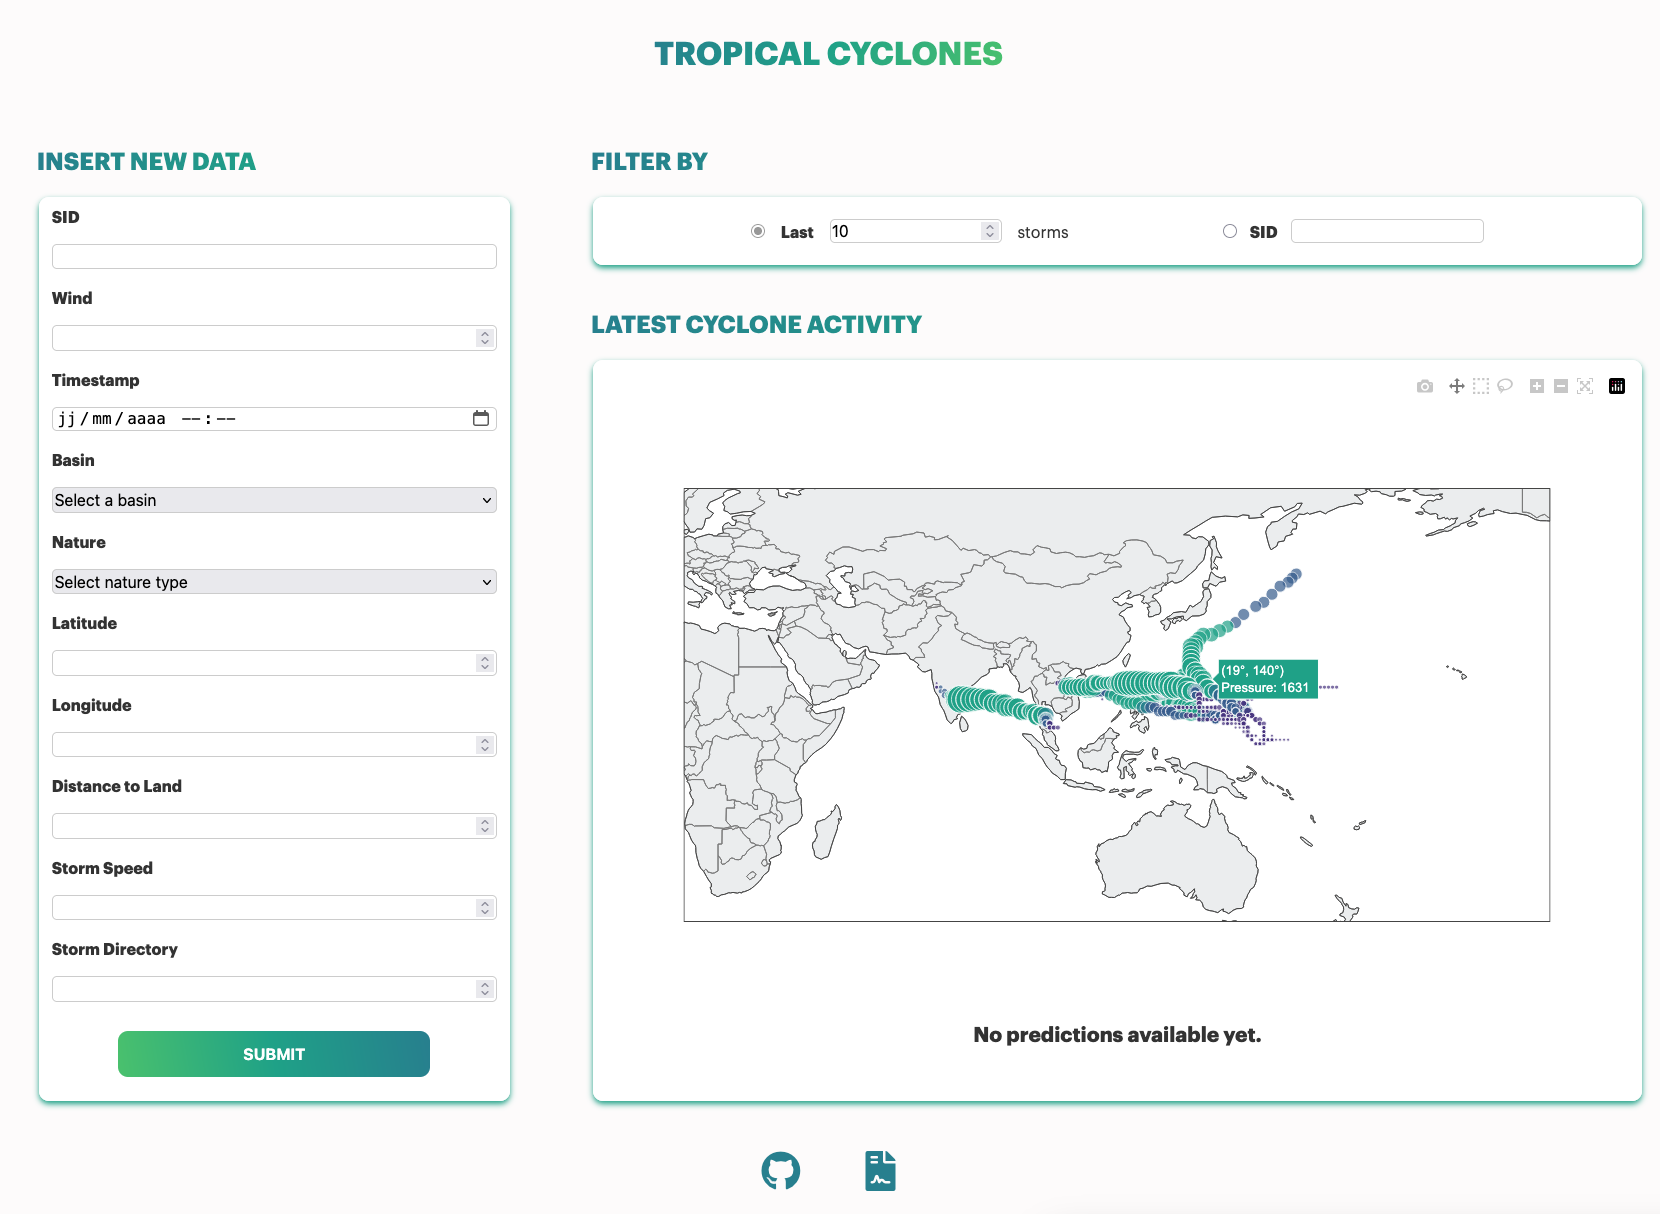
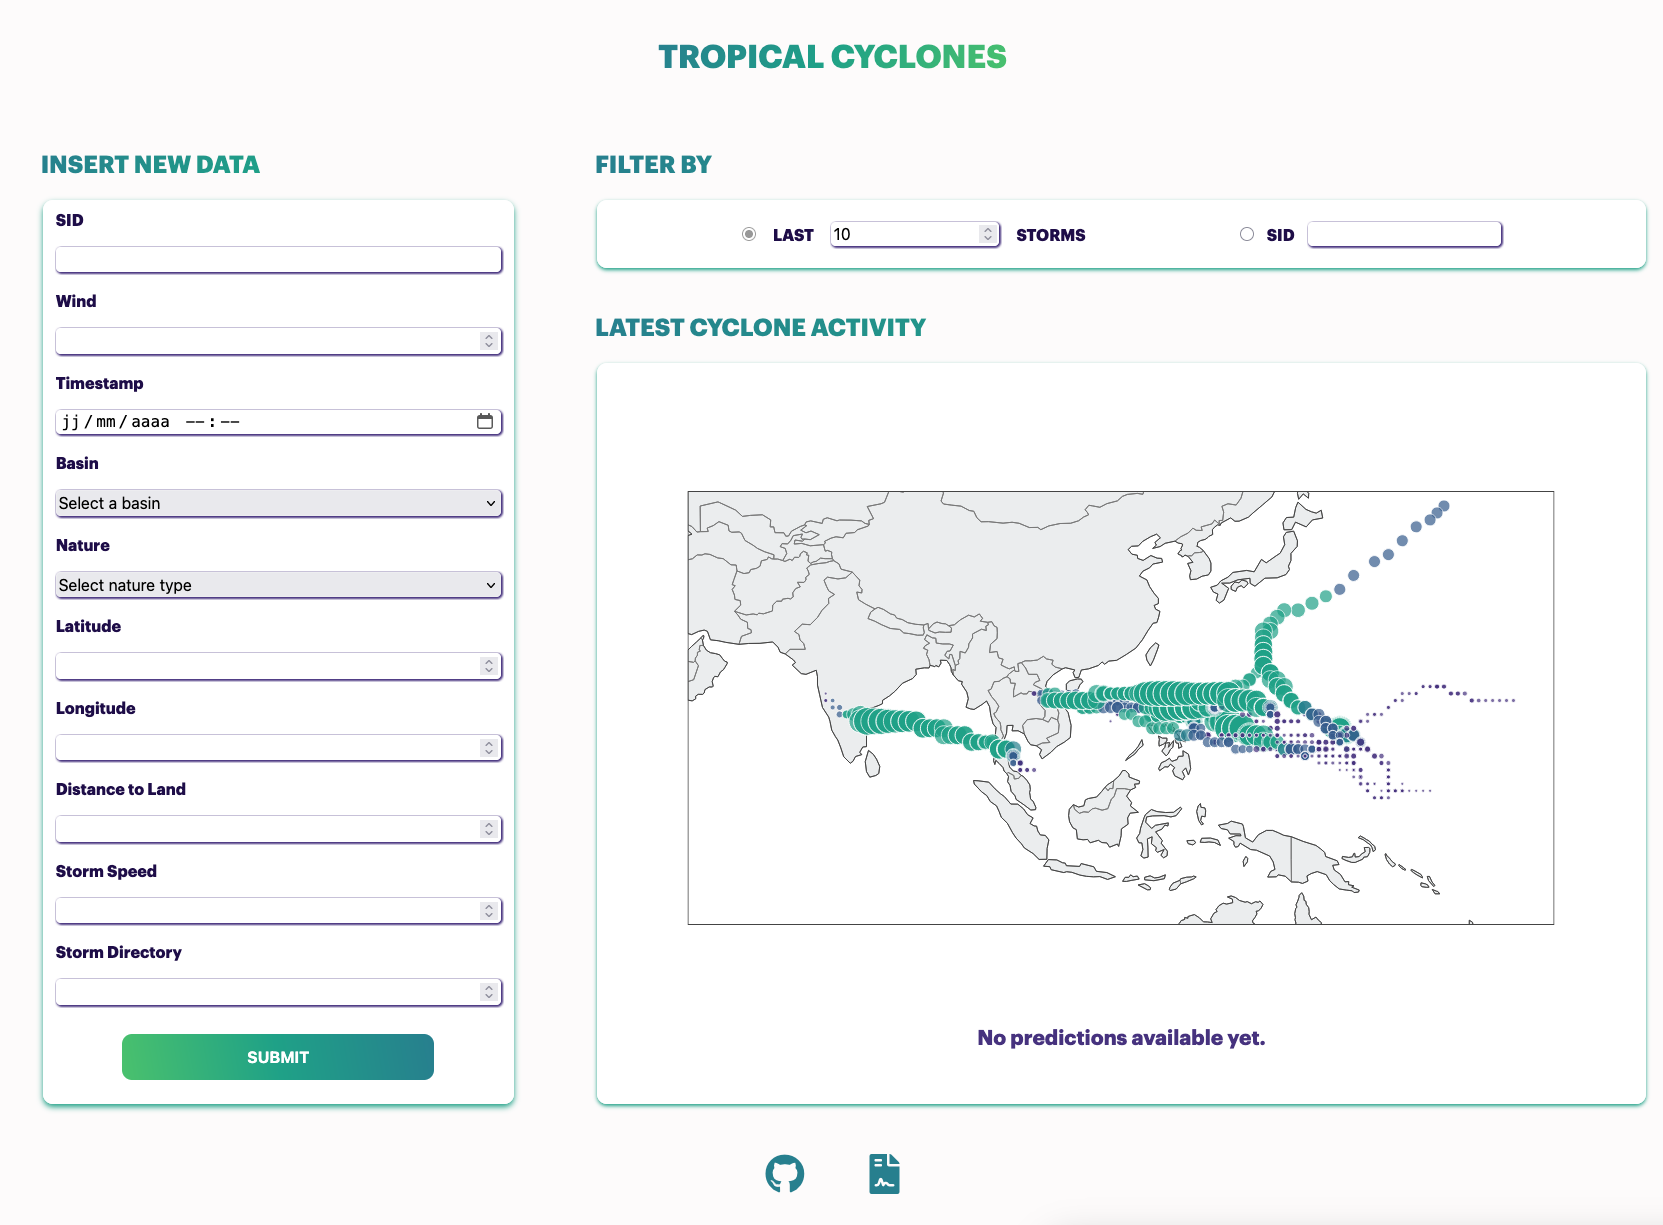
Minor color fixes for the frontend

diff --git a/web_app/app/static/assets/css/style.css b/web_app/app/static/assets/css/style.css
@@ -52,6 +52,7 @@ main {
   backdrop-filter: blur( 18px );
   -webkit-backdrop-filter: blur( 18px );
   font-weight: bold;
+  color: #1e0d48;
 }
 
 .left-column form {
@@ -66,8 +67,11 @@ main {
   width: 100%;
   padding: 0.4%;
   font-size: 1rem;
-  border: 1px solid #ccc; /* for the select boxes border in the form */
-  border-radius: 5px; 
+  border: 1px solid rgba( 255, 255, 255, 0.18 );
+  border-radius: 5px;
+  box-shadow: 1px 1px 1px 1px #46327e;
+  backdrop-filter: blur( 10px );
+  -webkit-backdrop-filter: blur( 10px );
   box-sizing: border-box; /* includes padding into total size */
 }
 
@@ -102,7 +106,7 @@ main {
   background: white;
   border: 1px solid rgba( 255, 255, 255, 0.18 );
   border-radius: 10px;
-  box-shadow: 0 3px 6px 0 #1fa187;
+  box-shadow: 0 2px 4px 0 #1fa187;
   backdrop-filter: blur( 18px );
   -webkit-backdrop-filter: blur( 18px );
   padding: 1%;
@@ -124,6 +128,8 @@ main {
   gap: 5%;
   margin-top: 1%;
   margin-bottom: 1%;
+  font-weight: bold;
+  color: #1e0d48;
 }
 
 .right-column section:nth-of-type(1) .filter-group input[type="radio"] {
@@ -134,6 +140,7 @@ main {
 
 .right-column section:nth-of-type(1) .filter-group label {
   font-weight: bold;
+  color: #1e0d48;
   margin: 0;
 }
 
@@ -143,8 +150,11 @@ main {
   padding-left: 0.4%;
   padding-right: 0.4%;
   font-size: 1rem;
-  border: 1px solid #ccc;
+  border: 1px solid rgba( 255, 255, 255, 0.18 );
   border-radius: 5px;
+  box-shadow: 1px 1px 1px 1px #46327e;
+  backdrop-filter: blur( 10px );
+  -webkit-backdrop-filter: blur( 10px );
   box-sizing: border-box;
 }
 
@@ -174,6 +184,7 @@ main {
   margin-bottom: 4%;
   font-weight: bold;
   font-size: 1.3rem;
+  color: #46327e;
 }
 
 /* Footer styles with social links */

diff --git a/web_app/app/templates/index.html b/web_app/app/templates/index.html
@@ -15,7 +15,7 @@
     <!-- Loading the CSS stylesheet -->
     {% load static %}
     <title>Tropical Cyclones</title>
-    <link rel="stylesheet" href="{% static 'assets/css/style.css' %}">
+    <link rel="stylesheet" href="{% static 'assets/css/style.css' %}?v=1.1">
     <script src="https://cdn.plot.ly/plotly-2.27.0.min.js"></script>
     <script src="https://code.jquery.com/jquery-3.6.0.min.js"></script>
     <script>
@@ -296,9 +296,9 @@
           <fieldset>
             <div class="filter-group">
               <input type="radio" id="last_n_storms" name="filter" value="last_n" checked />
-              <label for="last_n_storms">Last</label>
+              <label for="last_n_storms">LAST</label>
               <input type="number" id="number_of_storms" />
-              storms
+              STORMS
             </div>
             <div class="filter-group">
               <input type="radio" id="by_sid" name="filter" value="sid" />
